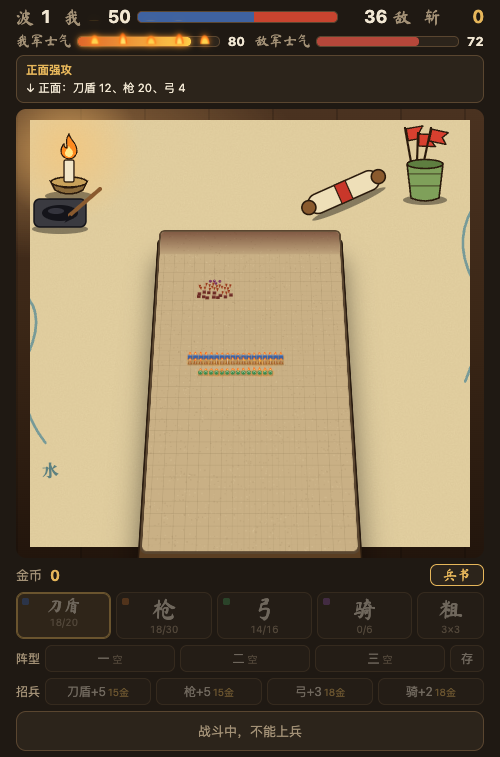
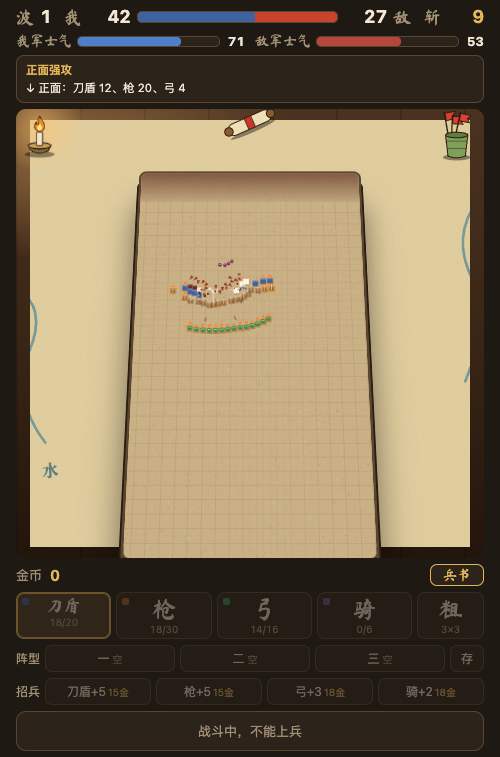
开战后沙盘放大（缩到 94%、倒 25 度），摆件缩小并挪到上方两角

diff --git a/index.html b/index.html
@@ -70,12 +70,13 @@ b { font-variant-numeric: tabular-nums; font-weight: 700; }
 #desk .prop { position: absolute; opacity: 0; transition: opacity .5s .3s; }
 #stage.tilt #desk .prop { opacity: 1; }
 #desk .prop > div, #desk .prop > svg { position: relative; display: block; }
-#desk .p-lamp { left: 5%; top: 4%; } #desk .p-ink { left: 3%; top: 17%; } #desk .p-flags { right: 5%; top: 3%; } #desk .p-roll { right: 20%; top: 15%; }
+/* 摆件只放在沙盘倒下后空出来的上方两个角，缩小，不挤沙盘 */
+#desk .p-lamp { left: 1%; top: .5%; transform: scale(.62); transform-origin: 0 0; } #desk .p-flags { right: 1%; top: 0; transform: scale(.62); transform-origin: 100% 0; } #desk .p-roll { left: 50%; top: 1%; transform: translateX(-50%) scale(.6); transform-origin: 50% 0; } #desk .p-ink { display: none; }
 @keyframes lampflick { 0% { opacity: .85; transform: scale(1); } 100% { opacity: 1; transform: scale(1.08); } }
 #desk .p-lamp > div > div { animation: lampflick .7s ease-in-out infinite alternate; }
 #cv { position: relative; z-index: 1; display: block; touch-action: none; border-radius: 6px; box-shadow: 0 0 0 3px var(--rim), 0 8px 24px rgba(0,0,0,.5); transform-origin: 50% 100%; transition: transform .9s cubic-bezier(.3,.7,.2,1), box-shadow .9s; }
 /* 布阵时沙盘是平的（手指画得准）；开战后倒成斜面，像低头看桌上的沙盘。打完回到备战再放平 */
-#stage.tilt #cv { transform: translateY(-1.5%) scale(.8) rotateX(32deg); box-shadow: 0 0 0 3px var(--rim), 0 12px 0 3px #5a3e22, 0 14px 0 5px #2a1c10, 0 44px 40px rgba(0,0,0,.6); }
+#stage.tilt #cv { transform: scale(.94) rotateX(25deg); box-shadow: 0 0 0 3px var(--rim), 0 12px 0 3px #5a3e22, 0 14px 0 5px #2a1c10, 0 44px 40px rgba(0,0,0,.6); }
 @media (prefers-reduced-motion: reduce) { #cv, #desk, #desk .prop { transition: none; } #desk .p-lamp > div > div { animation: none; } }
 
 footer { display: flex; flex-direction: column; gap: 6px; }
